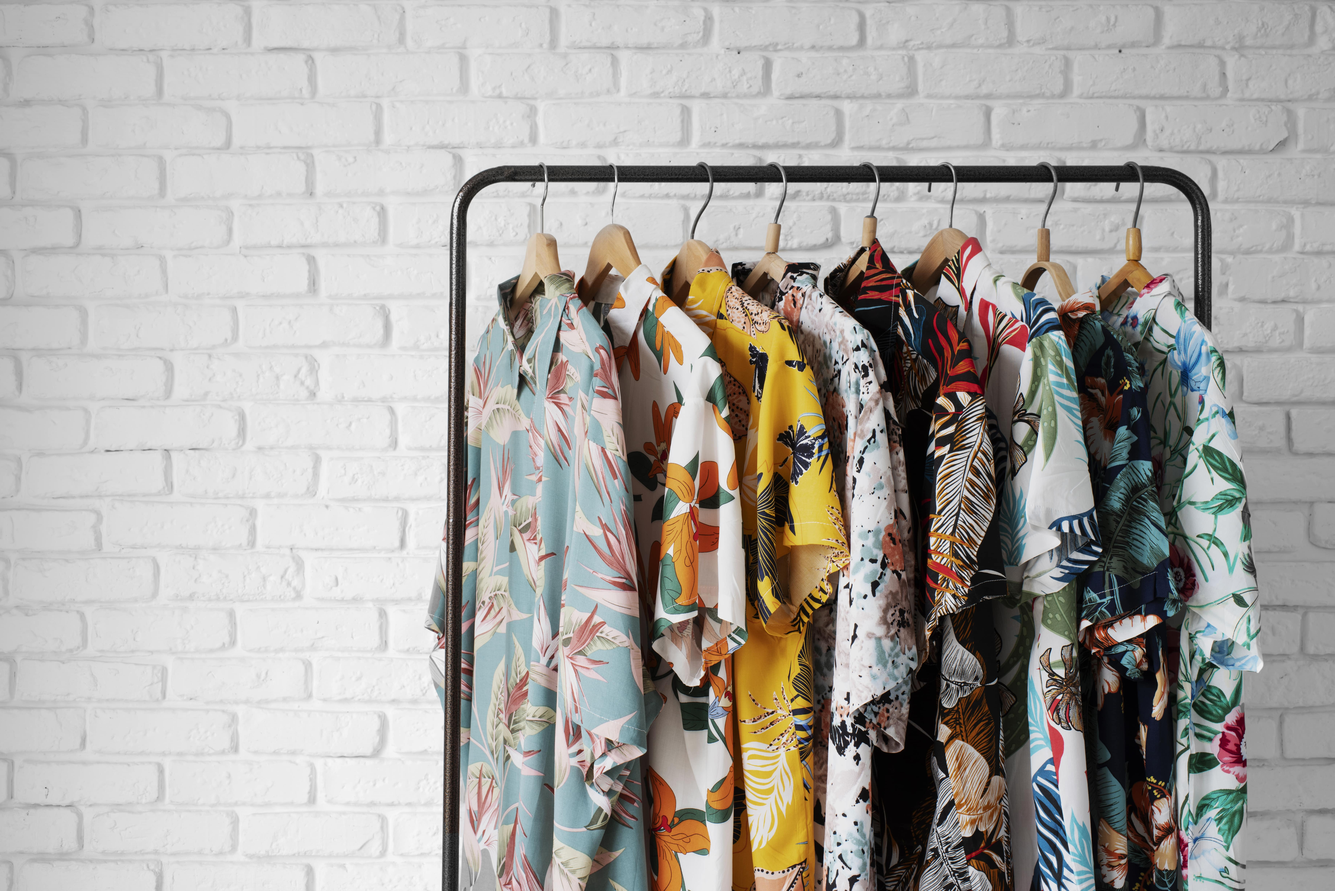
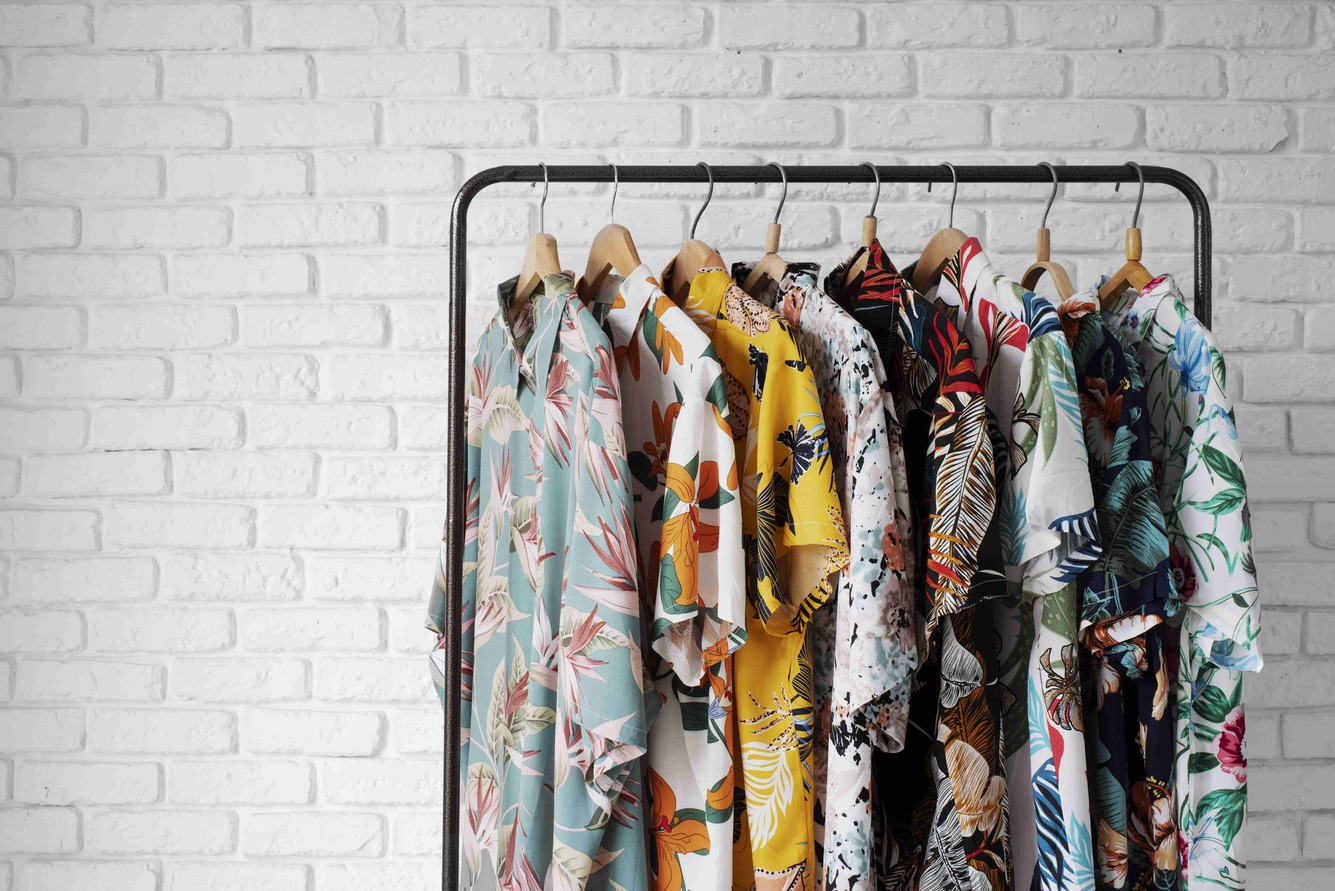
optimized the images with lower file size and removed lazy loading

Changed region(s): [[0.6875, 0.9344, 0.75, 1.0], [0.7812, 0.7787, 0.8125, 0.8099], [0.6875, 0.8721, 0.7188, 0.9033]]

diff --git a/app/user/dashboard/recentPurchasedItems/index.js b/app/user/dashboard/recentPurchasedItems/index.js
@@ -28,7 +28,7 @@ const RecentPurchasedItem = () => {
   }, []);
 
   return (
-    <div className="shadow p-10 w-full max-w-[750px] h-auto  md:max-h-[570px] ">
+    <div className="shadow p-10 w-full max-w-[750px] h-full  md:max-h-[570px] ">
       <h2 className="font-heading mb-5 ">Recently Purchased Items</h2>
       {loading && products && (
         <div className="text-lg font-others animate-bounce">Loading items</div>

diff --git a/app/hero/Image/index.js b/app/hero/Image/index.js
@@ -35,7 +35,6 @@ const HeroImages = () => {
                   alt={clothes.alt}
                   src={clothes.src}
                   fill
-                  loading="lazy"
                   priority={true}
                   style={{ objectFit: "cover" }}
                 />
